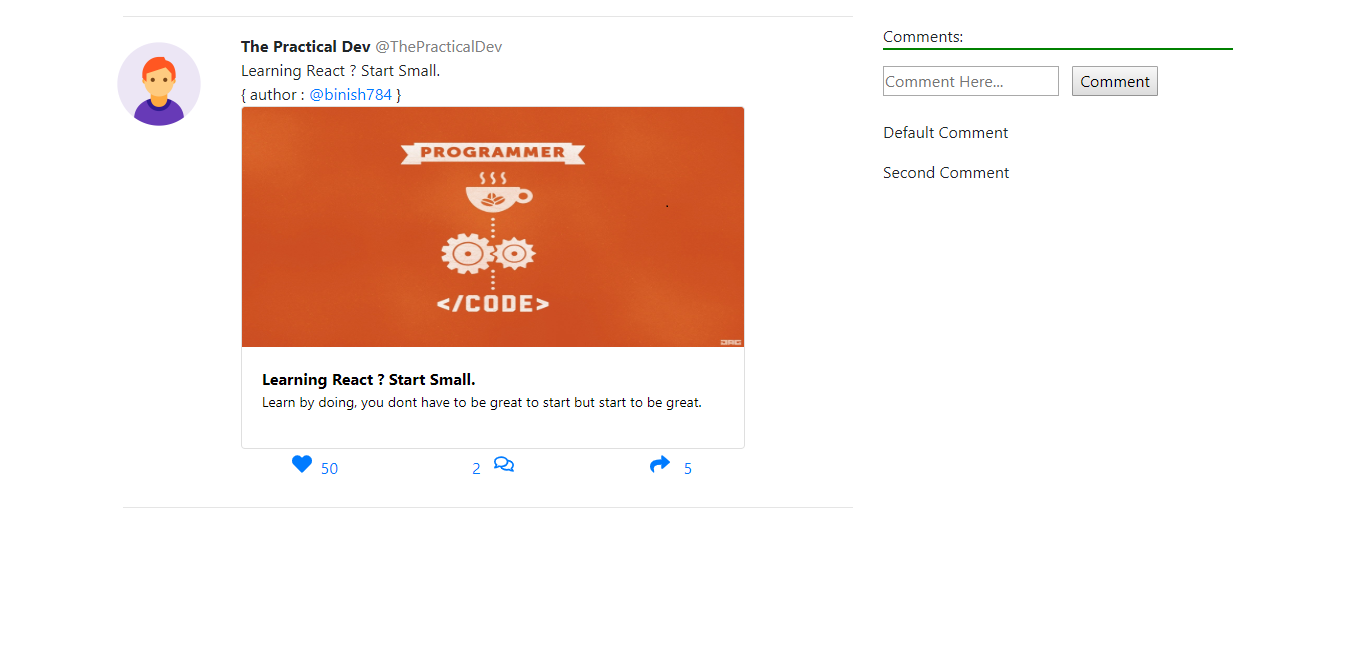
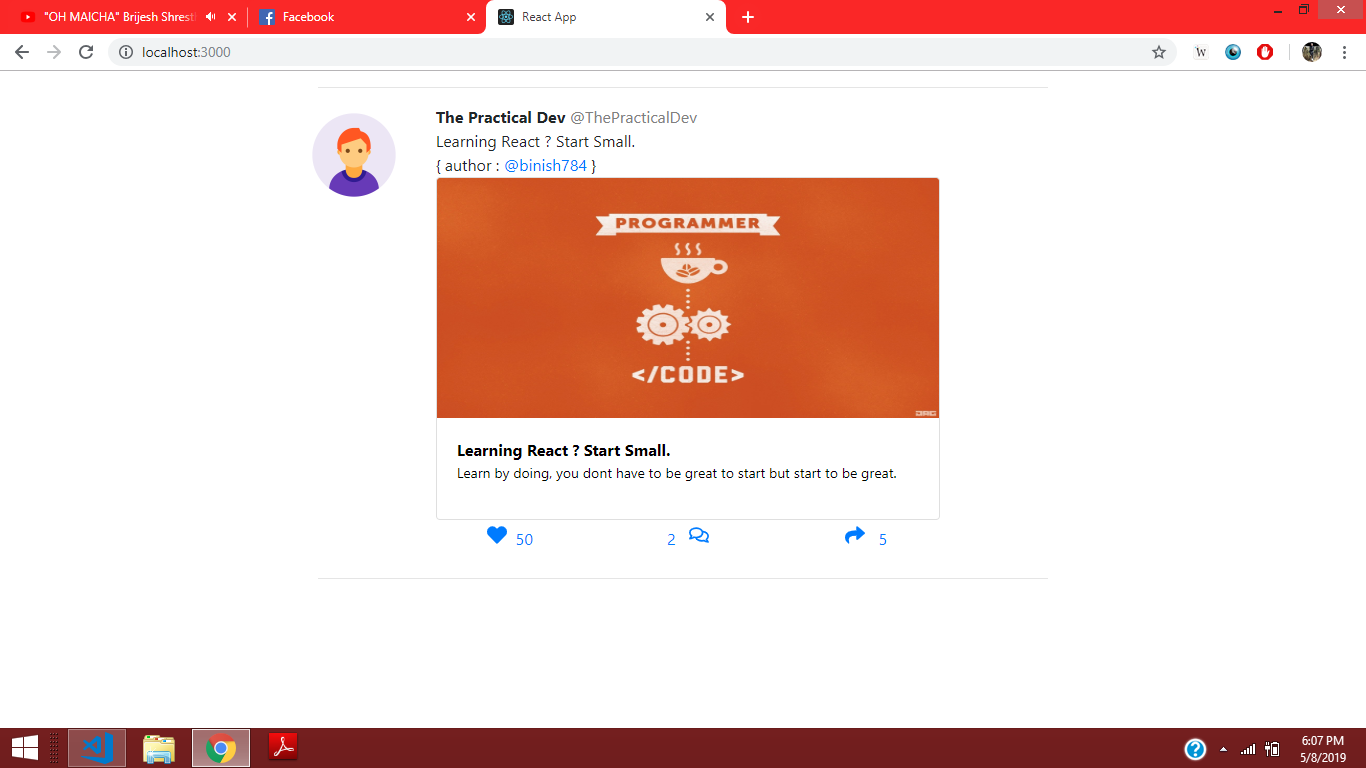
Comments Popup Added

diff --git a/src/components/card.jsx b/src/components/card.jsx
@@ -1,5 +1,6 @@
 import React, { Component } from 'react';
 import {FaHeart,FaShare,FaRegComments} from 'react-icons/fa';
+import PopUp from './popup';
 
 class SocialCard extends Component { 
 
@@ -9,12 +10,12 @@ class SocialCard extends Component {
             'Default Comment',
             'Second Comment'
         ],
+        'visible':false,
         'like':50,
         'comment':0,
         'share':5,
         'liked':false,
         'shared':false,
-        'commented':false,
         'comment_text':'',
     }
 
@@ -31,11 +32,6 @@ class SocialCard extends Component {
         this.setState({like,liked});
     }
 
-    handleComment=(e)=>{
-        let comment=this.state.comment;
-        comment=comment+1;
-        this.setState({comment});
-    }
     
     handleShare=(e)=>{
         if(!this.state.shared){
@@ -92,12 +88,26 @@ class SocialCard extends Component {
         }
     }
 
+    closePopUp=()=>{
+        let visible=this.state.visible;
+        visible=false; 
+        console.log("state changed to " + visible);
+        this.setState({visible});
+    }
+
+    showPopUp=()=>{
+        let visible=this.state.visible;
+        visible=true; 
+        console.log("state changed to " + visible);
+        this.setState({visible});
+    }
+
     render(){
        return (
            <div className='container'>
            <div className='row'>
           
-                <div className='col-md-8'>
+                <div className='col-md-8 offset-md-2'>
                 <hr></hr>
                     <div className='row'>
                         <div className='col-sm-2 nopadding'>
@@ -124,31 +134,40 @@ class SocialCard extends Component {
 
                             <div className='row'>
                                 {this.showLike()}
-                                <div className='col-sm-4 alignCenter padding5'><a href="javascript:void(0)" className='nodecoration' onClick={this.handleComment}>{this.state.comments.length}&nbsp;&nbsp; <FaRegComments size={20}/></a></div>
+                                <div className='col-sm-4 alignCenter padding5'>
+                                    <a href="javascript:void(0)" className='nodecoration' onClick={this.showPopUp}>
+                                        {this.state.comments.length}&nbsp;&nbsp; <FaRegComments size={20}/>
+                                    </a>
+                                </div>
                                 {this.showShare()}
                             </div>
-                            
-                          
                             </div>
                     </div>
                     
                 <hr></hr>
                 </div>
-                <div className='col-md-4'>
+               
+            </div>
+            <PopUp isOpen={this.state.visible}>
                 <br></br>
                 <p className='commentHeader'>Comments:</p>
                 
-                <div>
-                    <input type='text' placeholder='Comment Here...' onKeyPress={this.handleKeyPress} onChange={this.handleChange} value={this.state.comment_text}></input>
-                    &nbsp;&nbsp;&nbsp;<input type='submit' value='Comment' onClick={this.addComment}></input>
-                </div>
+                <div className='row'>
+                    <div className='col-md-10'>
+                        <input type='text' className='form-control' placeholder='Comment Here...' onKeyPress={this.handleKeyPress} onChange={this.handleChange} value={this.state.comment_text}></input>
+                    </div>
+                    <div className='col-md-2'>
+                        <input type='submit' className='btn btn-primary' value='Comment' onClick={this.addComment}></input>
+                
+                    </div>
+                    </div>
                 <br></br>
                 {this.state.comments.map((val,key)=>
-                    <p key={key}>{val}</p>
+                    <div className='commentRow' key={key}>{val}</div>
                     )}
-                </div>
-            </div>
-
+                
+                <a href='javascript:void(0)' id='popup-close-btn' onClick={this.closePopUp}>X</a>
+            </PopUp>
             </div>
        );
    }

diff --git a/src/App.css b/src/App.css
@@ -66,3 +66,48 @@
 .commentHeader{
   border-bottom: green 2px solid;
 }
+
+.PopUp-shown{
+  display: block;
+  position: fixed;
+  top: 0;
+  left: 0;
+  background-color: rgba(0, 0, 0, 0.5); 
+  height: 100%;
+  width:100%;
+}
+
+.PopUp-hidden{
+  display: none;
+  position: fixed;
+  top: 0;
+  left: 0;
+  background-color: rgba(0, 0, 0, 0.5); 
+  height: 100%;
+  width:100%;
+  
+}
+
+.PopUp-content{
+  position: relative;
+  margin: 50px auto;
+  max-width: 900px;
+  height: 500px;
+  color: black;
+  background-color: white;
+  border: 3px solid white;
+  padding: 25px 15px 15px 15px;
+  border-radius: 15px;
+}
+
+
+.commentRow{
+  font-size: 13px;
+  padding: 3px;
+}
+
+#popup-close-btn{
+  position: absolute;
+  top: 0;
+  right: 5px;
+}

diff --git a/src/components/popup.jsx b/src/components/popup.jsx
@@ -1,0 +1,18 @@
+import React, { Component } from 'react';
+
+class PopUp extends Component{
+
+    render(){
+        let toggle= this.props.isOpen ? 'PopUp-shown' : 'PopUp-hidden'
+        return(
+            <div className={toggle}>
+                <div className='PopUp-content'>
+                {this.props.children}
+                </div>
+            </div>
+        );
+    }
+
+}
+
+export default PopUp;

diff --git a/README.md b/README.md
@@ -1,5 +1,8 @@
 This project was bootstrapped with [Create React App](https://github.com/facebook/create-react-app).
 
+<img src='Screenshot.png' height=400px width=600px>
+<img src='Screenshot2.png' height=400px width=600px>
+
 ## Available Scripts
 
 In the project directory, you can run:
